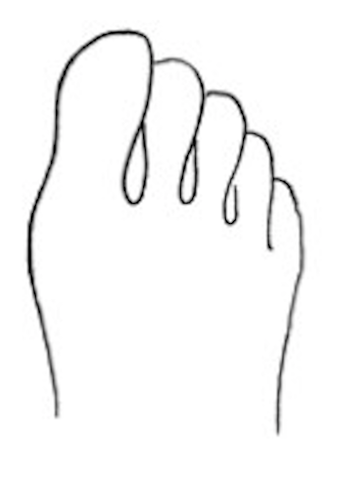
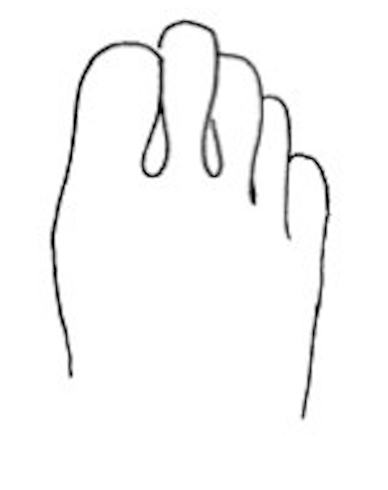
updates shoe types, updates type 1 image

Changed region(s): [[0.0593, 0.0306, 0.9199, 0.8878]]

diff --git a/index.html b/index.html
@@ -64,7 +64,7 @@
                             <p>(This step is required.)</p>
                             <div class="step-container flex-space-even width-70p">
                                 <button class="foot-button btn margin-10px" data-foot-shape-id="1">
-                                    <img id="foot-shape-1" class="vh-40 width-100p" src="images/type1.png" alt="describe foot shape 1"></button>
+                                    <img id="foot-shape-1" class="vh-40 width-100p" src="images/type1_crop.jpeg" alt="describe foot shape 1"></button>
                                 <button class="foot-button btn margin-10px" data-foot-shape-id="2">
                                     <img id="foot-shape-2" class="vh-40 width-100p" src="images/type2.png" alt="describe foot shape 2">
                                 </button>
